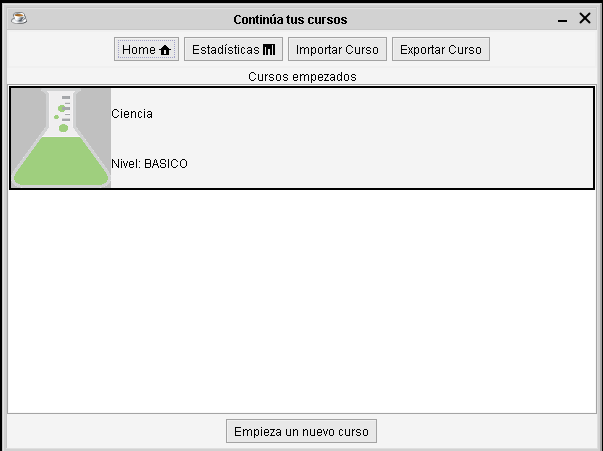
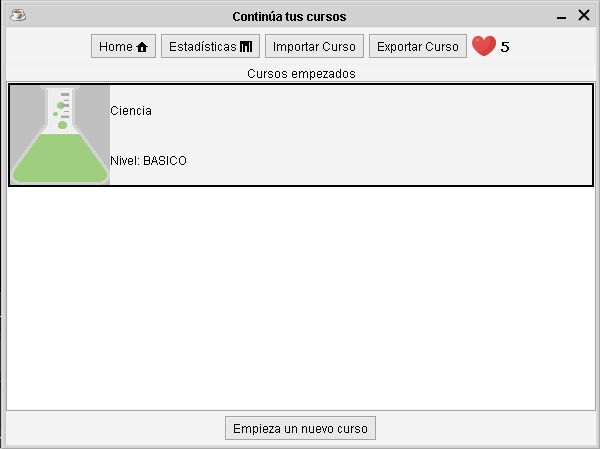
Manual de usuario

Changed region(s): [[0.0, 0.0, 1.0, 1.0], [0.15, 0.343, 0.33, 0.3742]]

diff --git a/Documentacion/manualUsuario.md b/Documentacion/manualUsuario.md
@@ -1,1 +1,89 @@
-### TODO
+# Manual de Usuario - Aplicación de Escritorio
+
+## Inicio
+
+Al arrancar la aplicación, se mostrará la **ventana de inicio**  
+![Texto alternativo](\Requisitos\Ventanas\VentanaInicio.png)
+
+Contiene dos botones:
+
+- **Empieza ahora**:  
+  Muestra los cursos disponibles. Si estás interesado
+  ![Texto alternativo](\Requisitos\Ventanas\VentanaCursos.png)
+  , haz clic en **Registrarse** y completa el formulario. Si los datos son correctos, accederás a la **ventana principal**.
+    ![Texto alternativo](\Requisitos\Ventanas\VentanaRegistro.png)
+- **Iniciar sesión**:  
+  Si ya estás registrado, accede mediante esta opción. Introduce tus credenciales y entrarás en la **ventana principal**.
+![Texto alternativo](\Requisitos\Ventanas\VentanaLogin.png)
+---
+
+## Ventana Principal
+
+Una vez registrado o logueado, verás la **ventana principal**. En la barra superior encontrarás el menú de navegación con las siguientes opciones:
+
+- **Inicio**: Volver a la ventana principal  
+- **Estadísticas**: Ver tu progreso y uso  
+- **Importar curso**: Añadir un curso propio  
+- **Exportar cursos**: Exportar los cursos disponibles
+![Texto alternativo](\Requisitos\Ventanas\VentanaPrinicipal.png)
+Debajo, encontrarás un botón para **empezar un nuevo curso**.  
+Esto abrirá la ventana **"Elegir curso"** con los cursos disponibles. Selecciona uno y vuelve a la ventana principal.
+![Texto alternativo](\Requisitos\Ventanas\VentanaElegirCurso.png)
+
+---
+
+## Practicar un Curso
+
+En la ventana principal aparecerán los cursos seleccionados. Para comenzar:
+
+1. Haz clic sobre el curso.
+2. Si es la primera vez, se mostrará una ventana para elegir estrategia de aprendizaje:
+   - **Secuencial**
+   - **Aleatoria**
+   - **Aprendizaje espaciado**
+3. Se abrirá la **ventana de test**.
+![Texto alternativo](\Requisitos\Ventanas\VentanaSeleccionEstrategia.png)
+---
+
+## Ventana de Test
+
+En la parte superior contiene:
+
+- **Abandonar práctica**: Pierdes todo el progreso
+- **Información**
+- **Vidas restantes** (a la derecha)
+
+Debajo:
+
+- **Barra de progreso**: Muestra aciertos, fallos y preguntas restantes
+- **Zona central**: Muestra la pregunta
+- **Botón siguiente pregunta**
+- **Botón para saltar todas las preguntas** (modo prueba)
+![Texto alternativo](\Requisitos\Ventanas\VentanaPreguntaTest.png)
+Al finalizar el test (aprobado o suspendido), se mostrará una ventana con el resultado y un botón para volver a la ventana principal.
+![Texto alternativo](\Requisitos\Ventanas\VentanaJuegoTerminado.png)
+---
+
+## Reglas de Vidas
+
+- Si pierdes todas las vidas, se pierde el progreso.
+- Debes esperar a recuperar al menos **1 vida** para volver a practicar.
+- El contador de vidas aparece en la barra superior de la ventana principal.
+- Con al menos una vida, se muestra cuántas tienes disponibles.
+
+---
+
+## Finalizar Curso
+
+Al completar un curso:
+
+- Puedes **reiniciarlo**
+- O **borrarlo**, en cuyo caso desaparecerá
+
+Si decides volver a practicar un curso, se te volverá a preguntar por la **estrategia de aprendizaje**.
+![Texto alternativo](\Requisitos\Ventanas\VentanaReiniciarCurso.png)
+---
+
+## Notas
+
+- El botón para **saltar preguntas** es solo para pruebas y usuarios de test.

diff --git a/Diseño/ModeloDeDominio/ModeloDominio.md b/Diseño/ModeloDeDominio/ModeloDominio.md
@@ -1,0 +1,50 @@
+# 📘 Modelo de Dominio
+
+Aquí nos encontramos con el modelo de dominio de la aplicación Duolingo Baratero. A continuación, se explica cómo están organizados los elementos principales.
+
+## 📌 Descripción General
+El sistema permite a los **usuarios** estudiar y crear cursos, los cuales contienen diferentes tipos de contenido y métodos de aprendizaje.
+
+---
+
+## 🧑🎓 Usuarios y Cursos
+- Un **usuario** puede **crear** y **estudiar** cursos.
+- Un **curso** está compuesto por **bloques de contenido** con ejercicios interactivos.
+
+---
+
+## 📚 Métodos de Aprendizaje
+Los cursos pueden seguir diferentes estrategias de aprendizaje:
+1. **Aprendizaje Secuencial** → El contenido se estudia en un orden fijo.
+2. **Aprendizaje Repetitivo** → El contenido se distribuye en sesiones de repaso en intervalos específicos y progresivamente espaciados en el tiempo.
+3. **Aprendizaje Aleatorio** → El contenido se presenta en un orden diferente cada vez.
+
+---
+
+## 🔍 Contenido del Curso
+Cada curso está dividido en **bloques de contenido**, que contienen **ejercicios** diseñados para reforzar el aprendizaje.
+
+Los ejercicios pueden incluir:  
+✔ **Preguntas de Test** (opción múltiple).  
+✔ **Preguntas de Huecos** (completar frases).  
+✔ **Preguntas de Escucha** (preguntas basadas en audio).  
+✔ **Flashcards** (tarjetas de memorización).
+
+---
+
+## 🔄 Estados del Curso
+Un curso puede encontrarse en diferentes estados:
+- **Nuevo** → El usuario aún no ha comenzado.
+- **En Marcha** → El usuario está estudiándolo.
+- **Finalizado** → El usuario ha completado el curso.
+
+---
+
+## 📁 Diagrama del Modelo de Dominio
+Aquí puedes ver un diagrama que representa la estructura del sistema:
+
+![Diagrama del Modelo](modelo_dominio.png)
+
+---
+
+📩 **¿Preguntas o sugerencias?** ¡Siéntete libre de abrir un issue o hacer un pull request!
